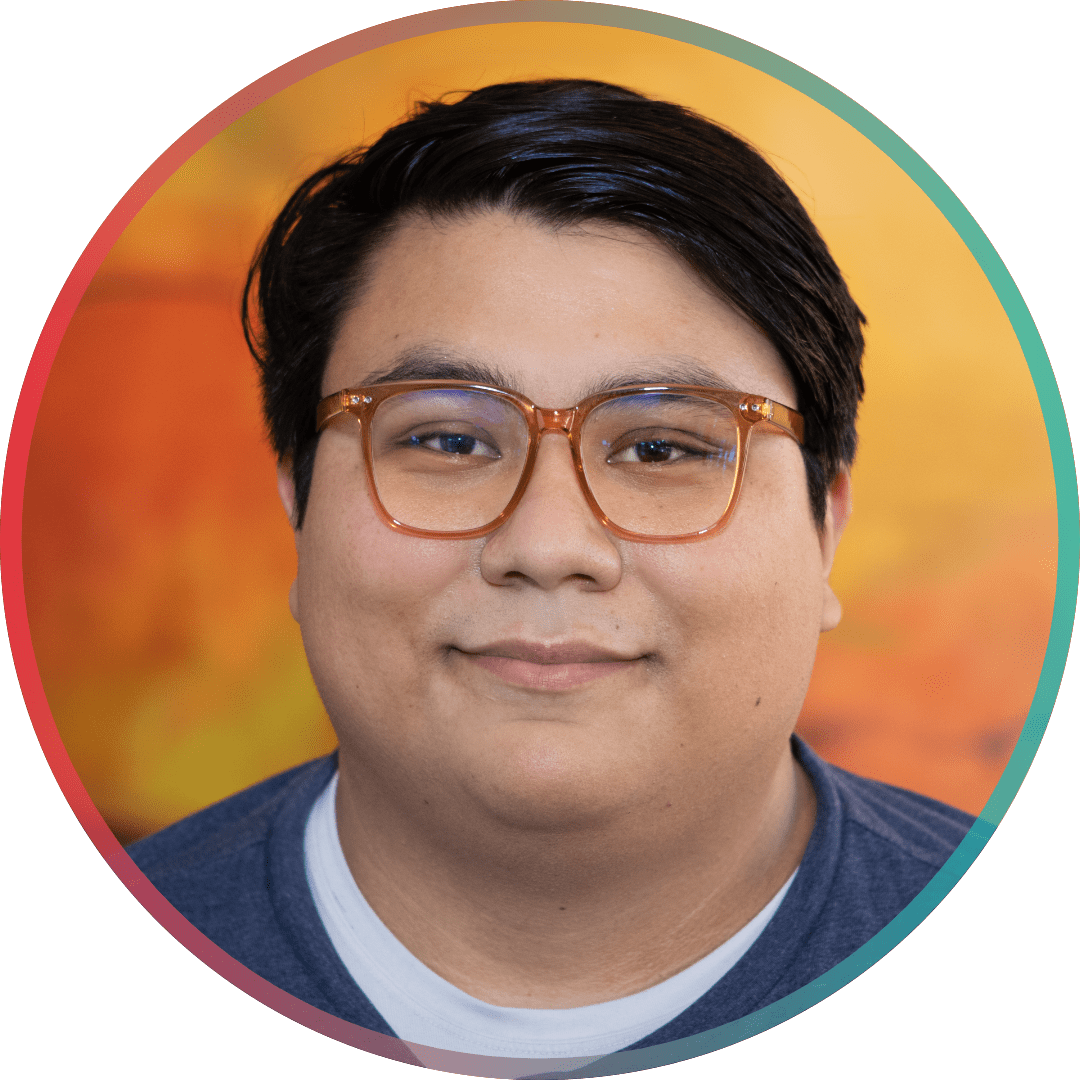
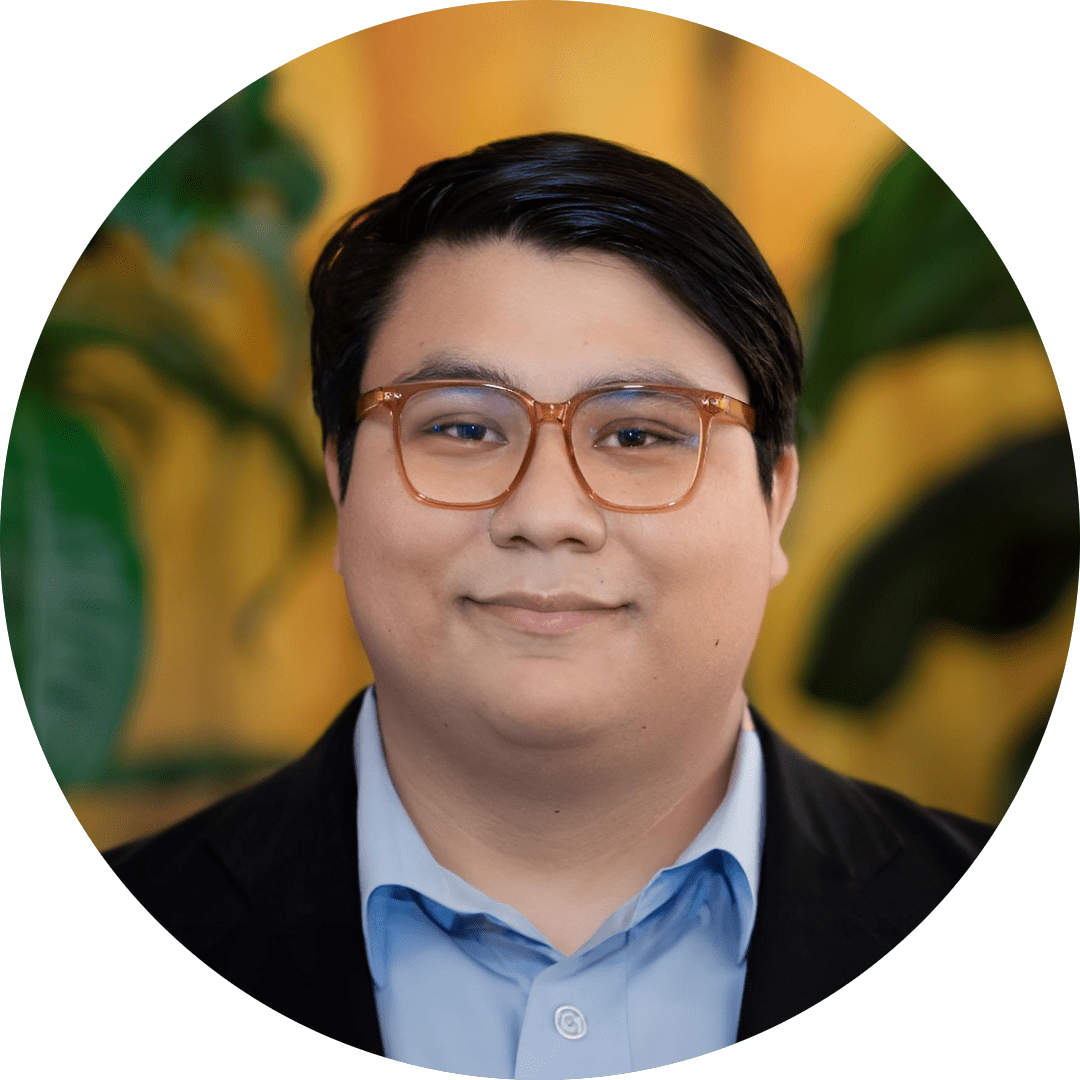
edgar ai-ed my picture to look more professional lmao

diff --git a/index.html b/index.html
@@ -41,7 +41,7 @@
 				<div class="container">
 					<div class="row">
 						<div class="col-4 col-5-large col-12-medium">
-							<span class="image fit"><img src="images/profilepic2.png" alt="" /></span>
+							<span class="image fit"><img src="images/profilepic.png" alt="" /></span>
 						</div>
 						<div class="col-8 col-7-large col-12-medium">
 						<div style="line-height: 60px;">
